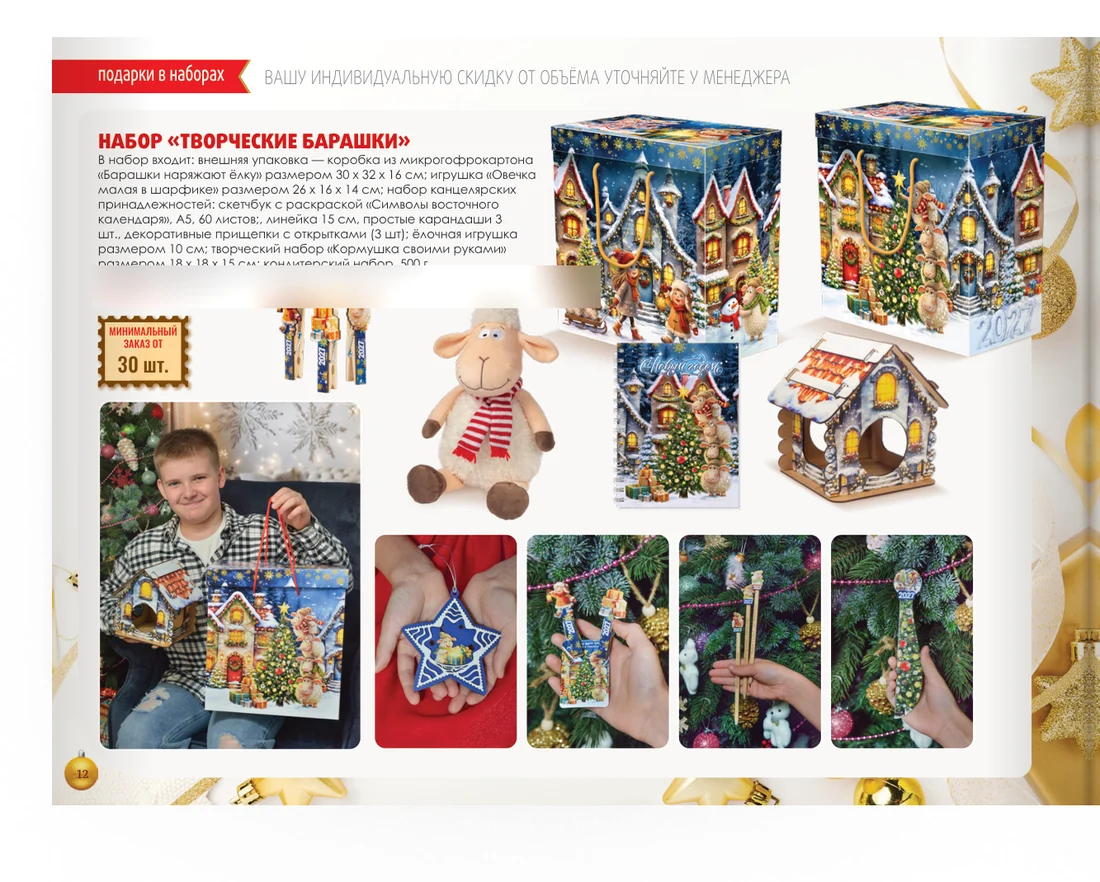
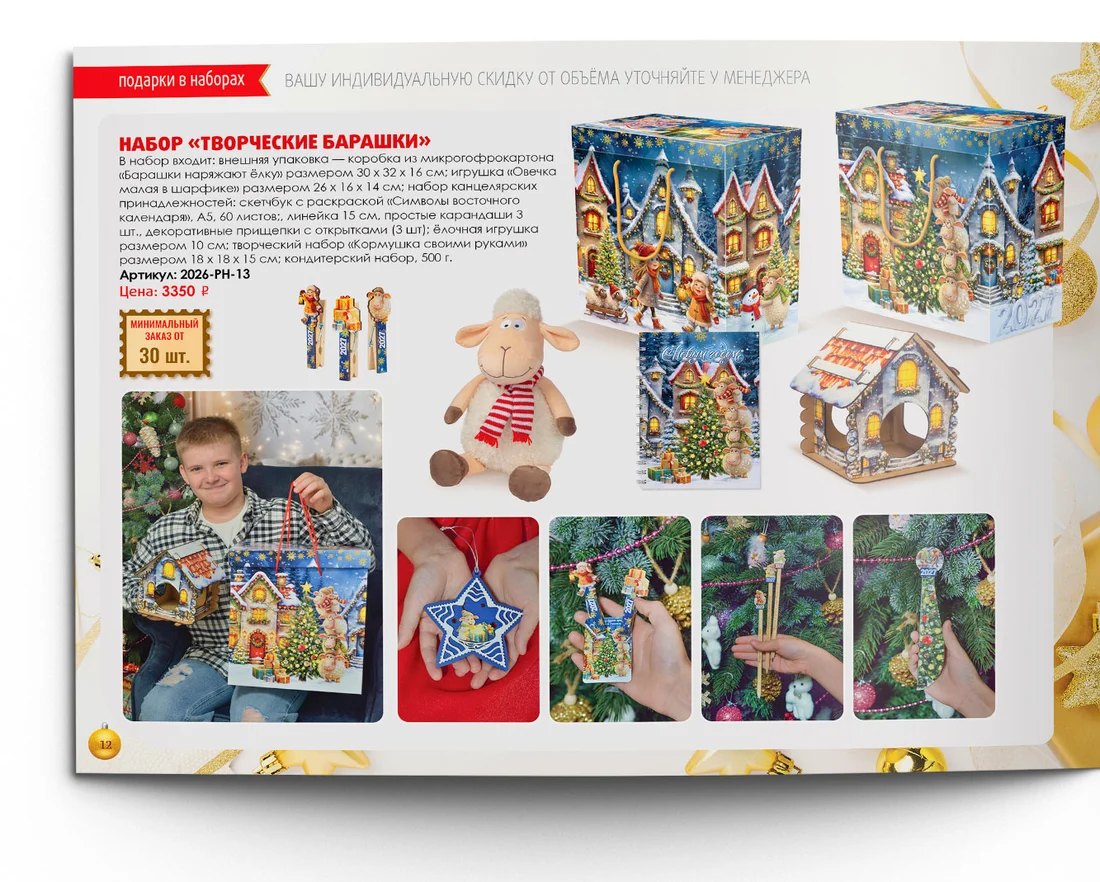
Calibri_gift: новая картинка превью ссылки, цены в каталоге видны
• Превью под ссылкой в соцсетях — обложка «Коллекция новогодних подарков
  2027» вместо коробки. Обложка почти квадратная (811×603), превью —
  1200×630: обрезать нельзя (пропал бы логотип или «2027»), поэтому
  обложка целиком по центру, по бокам её размытая копия. Новое имя
  og-2027.jpg — мессенджеры кешируют превью по адресу картинки. Старый
  og.jpg удалён, у картинки добавлен alt. Скрипт scripts/make-og.mjs.

• «Полистайте наш каталог»: замазка с цен убрана. Подводный камень —
  в PDF-каталоге вместо цен заглушки «Цена: 00 ₽» на всех страницах,
  настоящие цены только в её макетах. Раньше страницы перерисовывались
  из PDF ради точного замывания. Теперь по умолчанию страницы берутся
  прямо из макетов; PDF нужен только с флагом --mask-prices.

• Там же выяснилось, что рамка разворота в макете выше самой страницы
  (в неё попадают толщина книги и тень), а сам макет в верных
  пропорциях — поэтому страницы из макета не сжимаются. Сверено по фото
  на стр. 10 с PDF.

diff --git a/Calibri_gift/app/layout.tsx b/Calibri_gift/app/layout.tsx
@@ -26,7 +26,7 @@ const caveat = Caveat({
 });
 
 // на GitHub Pages сайт живёт в подкаталоге /WebSites — OG-путь строим
-// абсолютным от SITE, иначе "/gift/og.jpg" резолвится мимо подкаталога
+// абсолютным от SITE, иначе "/gift/og-2027.jpg" резолвится мимо подкаталога
 const SITE = process.env.NEXT_PUBLIC_SITE_URL ?? "http://localhost:3000";
 
 export const metadata: Metadata = {
@@ -40,7 +40,18 @@ export const metadata: Metadata = {
     title: "Колибри — вы дарите самое важное: заботу и внимание",
     description:
       "Корпоративные новогодние подарки для команд от 300 человек. 11 лет на рынке, 1000+ компаний.",
-    images: [{ url: `${SITE}/gift/og.jpg`, width: 1200, height: 630 }],
+    // Превью ссылки — обложка «Коллекция новогодних подарков 2027» (правка
+    // «заменить текущую коробку на картинку для шеринга»). Новое имя файла,
+    // а не старое og.jpg: мессенджеры кешируют превью по адресу картинки.
+    // Готовит scripts/make-og.mjs.
+    images: [
+      {
+        url: `${SITE}/gift/og-2027.jpg`,
+        width: 1200,
+        height: 630,
+        alt: "Коллекция новогодних подарков 2027 — торговая компания «Колибри»",
+      },
+    ],
     locale: "ru_RU",
     type: "website",
   },

diff --git a/Calibri_gift/components/Formats.tsx b/Calibri_gift/components/Formats.tsx
@@ -35,9 +35,9 @@ import { asset } from "@/lib/asset";
 
 // Страницы каталога — по одной на картинке. Правка «сделать по 1 странице
 // на картинке»: «у Клода по одной страничке, а не по две». Готовит
-// scripts/make-spreads.mjs (режет собранные развороты пополам) — он же
-// замывает строки «Цена: …» и «Артикул: …»: прайс не должен попасть
-// в открытый доступ, рядом же написано, что каталог мы открыто не выкладываем.
+// scripts/make-spreads.mjs (режет собранные развороты пополам). Цены на
+// страницах видны — правка «убрать замазку с цен, чтобы цены везде было
+// видно»; раньше скрипт их замывал.
 //
 // Подпись под страницей — название набора, как у Клода. Названия взяты
 // из текстового слоя PDF-каталога; где на странице два набора — оба.
